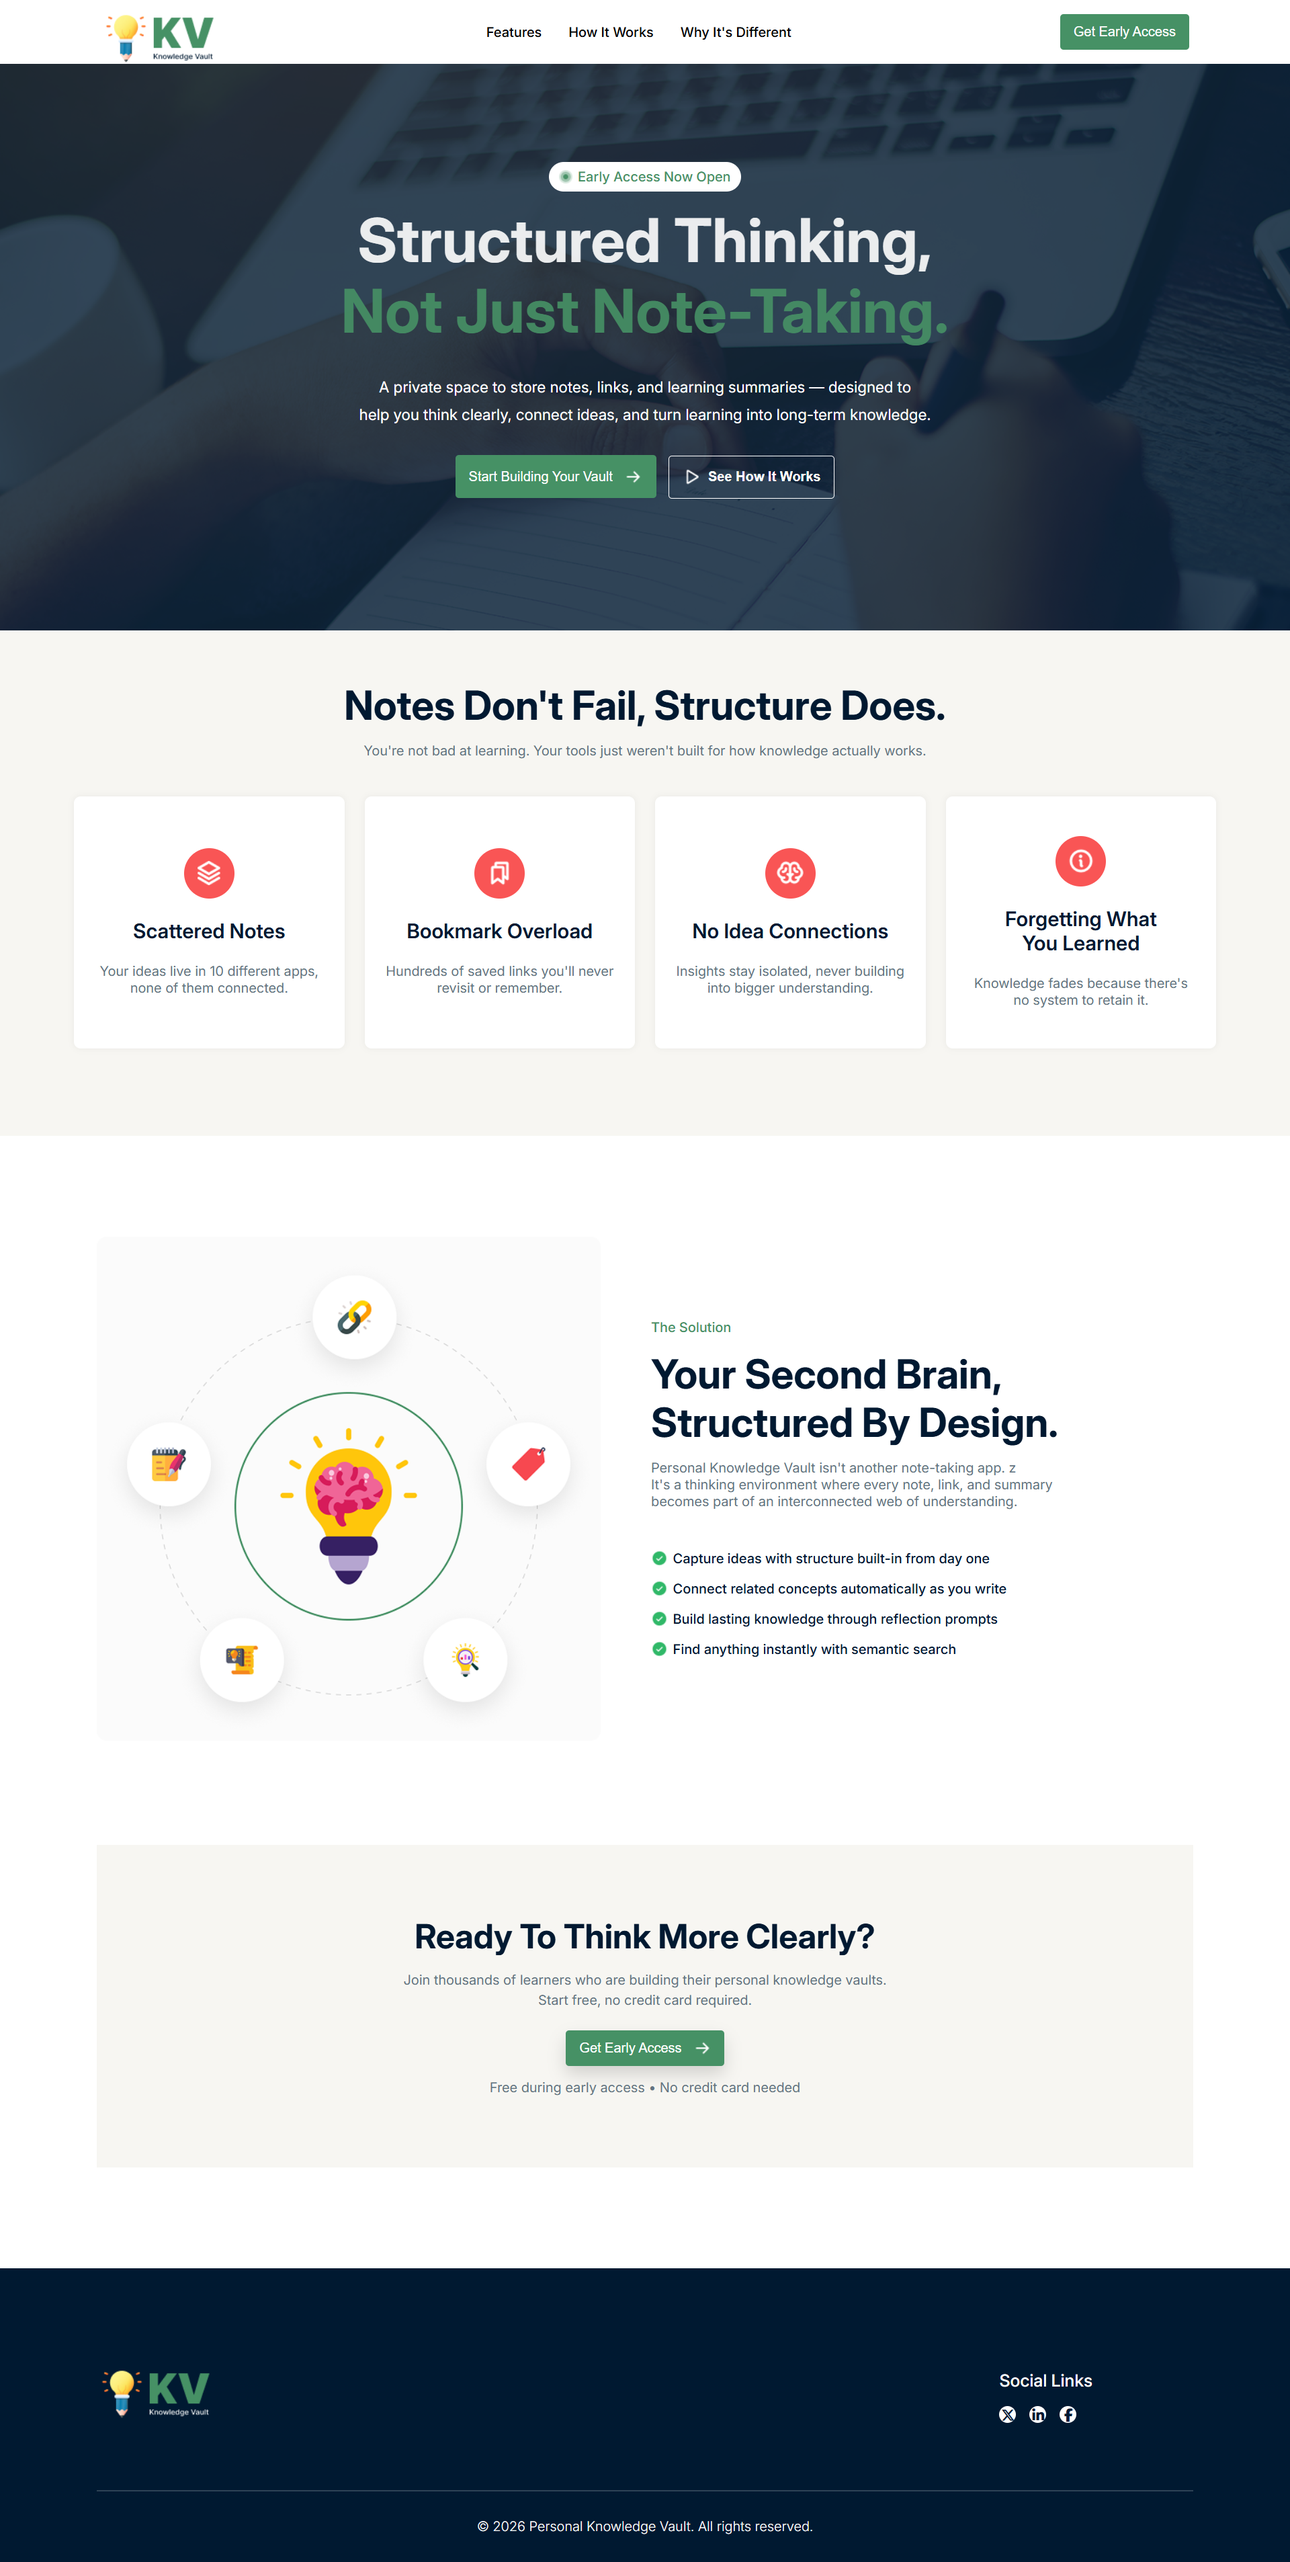
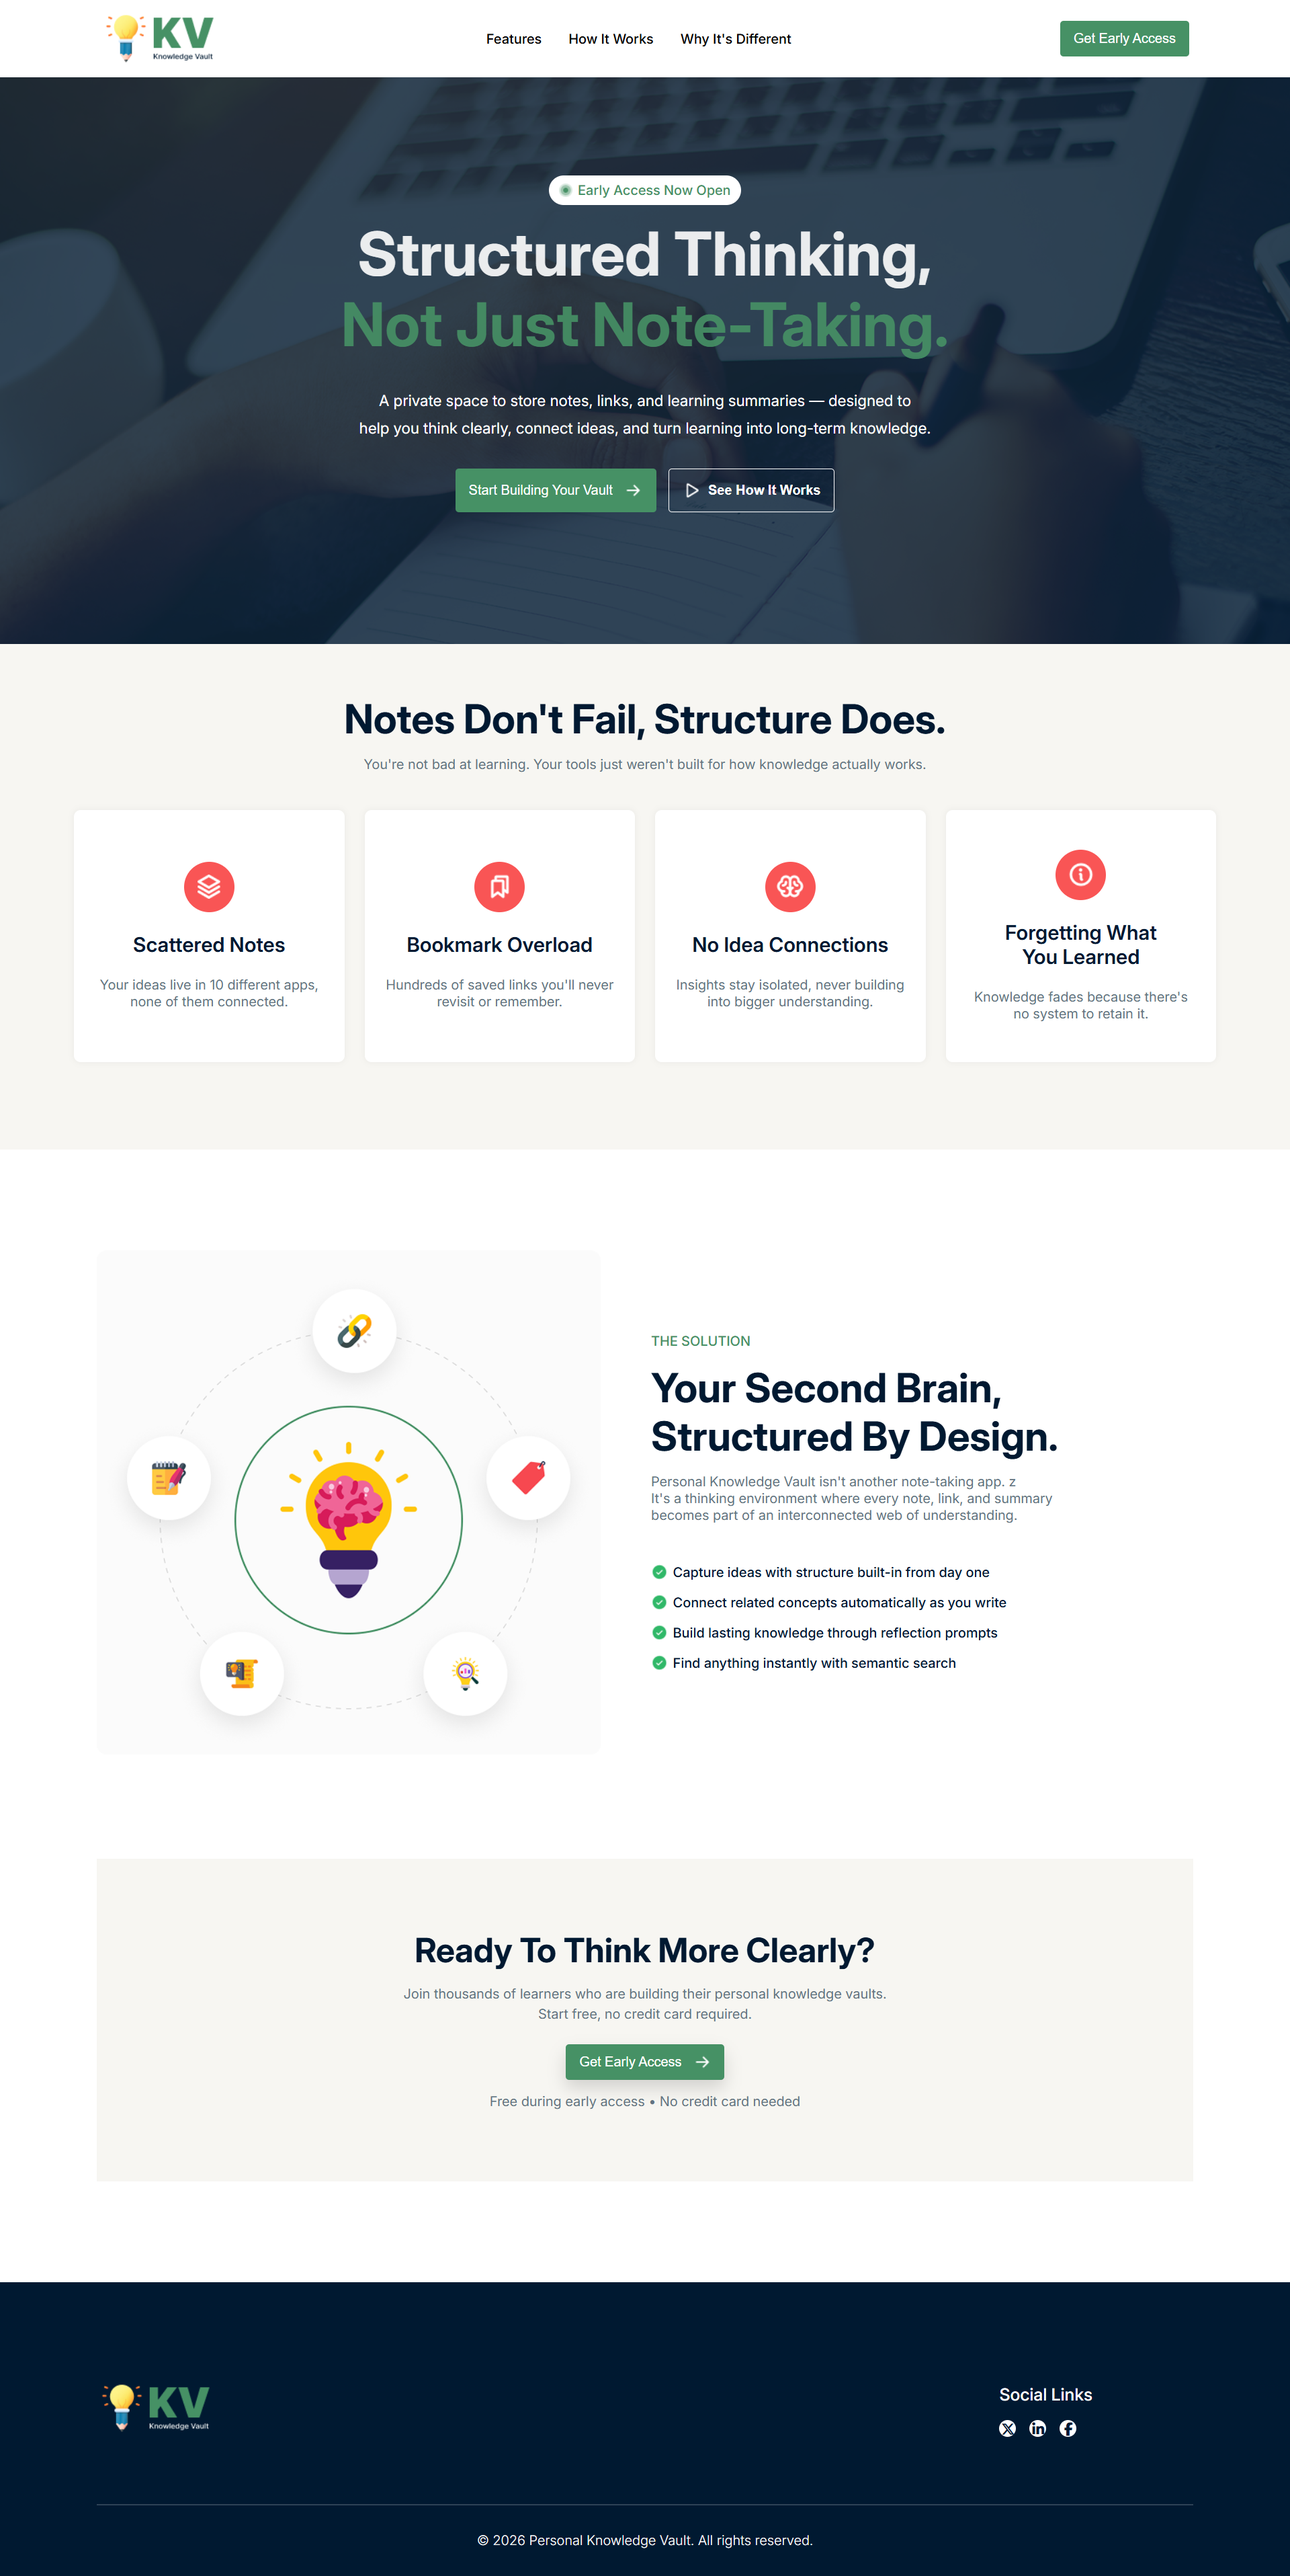
Everthing's OK (IN SHA ALLAH)

diff --git a/index.html b/index.html
@@ -8,6 +8,7 @@
     <link rel="preconnect" href="https://fonts.gstatic.com" crossorigin>
     <link href="https://fonts.googleapis.com/css2?family=Inter:ital,opsz,wght@0,14..32,100..900;1,14..32,100..900&display=swap" rel="stylesheet">
     <link rel="stylesheet" href="https://cdnjs.cloudflare.com/ajax/libs/font-awesome/7.0.1/css/all.min.css" integrity="sha512-2SwdPD6INVrV/lHTZbO2nodKhrnDdJK9/kg2XD1r9uGqPo1cUbujc+IYdlYdEErWNu69gVcYgdxlmVmzTWnetw==" crossorigin="anonymous" referrerpolicy="no-referrer" />
+    <link rel="shortcut icon" href="./assets/logo-footer.png" type="image/x-icon">
 
     <title>Knowledge-Vault</title>
 </head>
@@ -78,7 +79,7 @@
             <div class="main-part-image"><img src="./assets/knowledge.png" alt="Knowledge"></div>
 
             <div class="main-part-content">
-                <h6>The Solution</h6>
+                <h6>THE SOLUTION</h6>
                 <h3>Your second brain, structured by design.</h3>
                 <p class="main-part-content-ptext">Personal Knowledge Vault isn't another note-taking app. z <br>It's a thinking environment where every note, link, and summary <br> becomes part of an interconnected web of understanding.</p>
                 <div class="checked-part">

diff --git a/style.css b/style.css
@@ -13,10 +13,7 @@ nav {
     display: flex;
     justify-content: space-between;
     align-items: center;
-    margin: 0 120px;
-}
-nav img {
-    margin-top: 16px;
+    margin: 16px 120px;
 }
 .nav-content ul {
     display: flex;
@@ -244,7 +241,6 @@ footer hr {
 }
 
 
-
 .footer-end p {
     font-size: 16px;
     line-height: 24px;
@@ -263,7 +259,7 @@ footer hr {
     background-color: rgba(255, 0, 0, 0);
     border: 1px solid #ffffff;
     border-radius: 4px;
-    padding: 15px 16px 16px 0;
+    padding: 16px 16px 16px 0;
     margin-left: 10px;
 }
 .btn-green {
@@ -278,7 +274,7 @@ footer hr {
 .btn-green:hover, .btn-white:hover {
     cursor: pointer;
     opacity: 0.8;
-    box-shadow: 0 6px 15px rgba(0,0,0,0.25);
+    box-shadow: 0 6px 15px rgba(0,0,0,0.45);
 }
 #header-banner .btn-green {
     padding: 16.5px 0 16.5px 16px;

diff --git a/readme.md b/readme.md
@@ -1,0 +1,4 @@
+# live link:- [click](https://mi-araf.github.io/b13-a1-knowledge-vault-page/)
+
+## preview of this web-page --
+<img src="./assets/landing-page.png" alt="landing-page">
